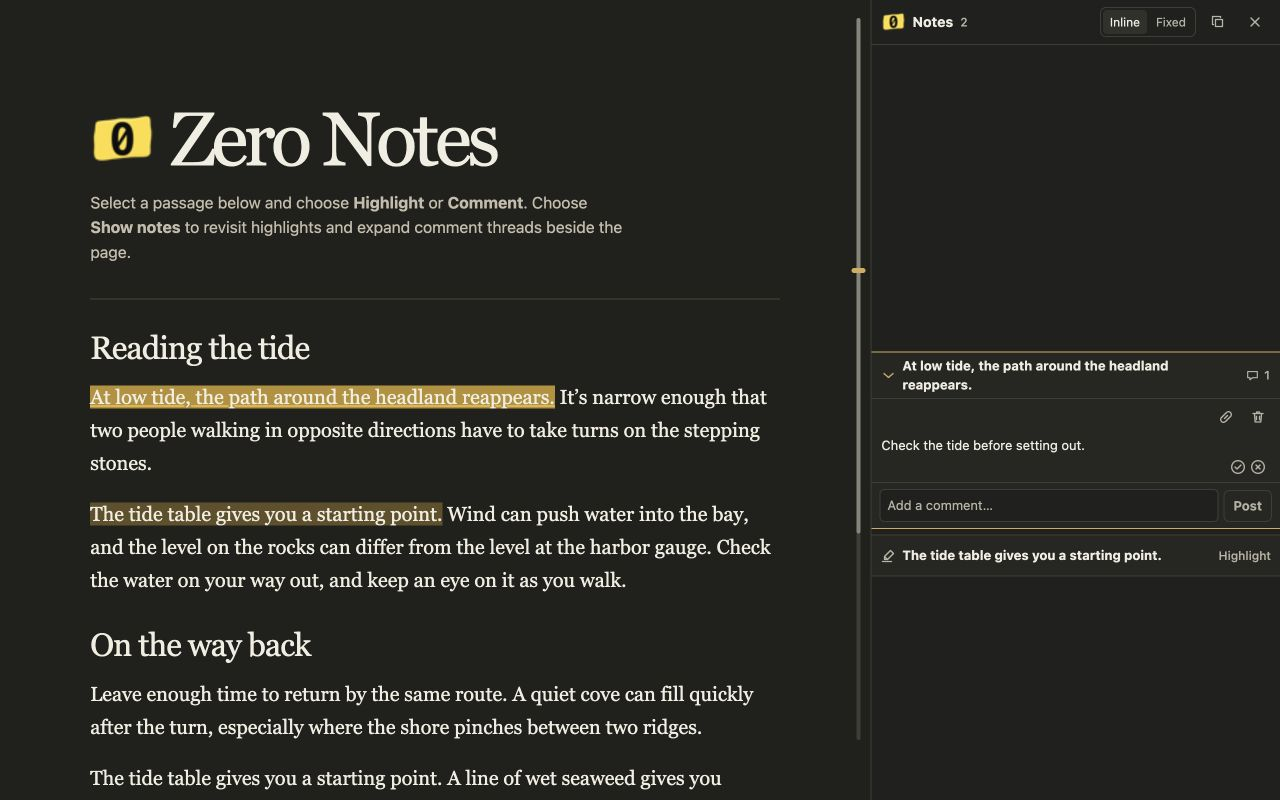
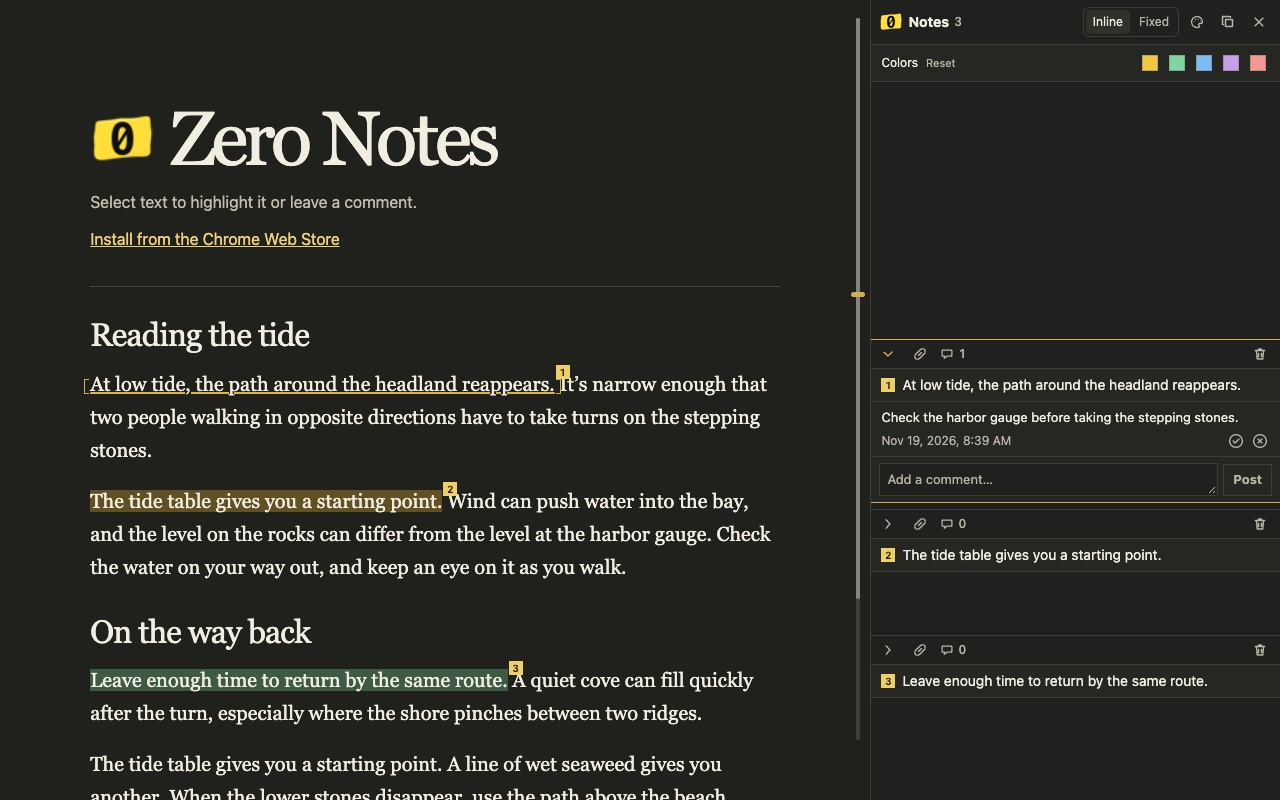
Prepare Zero Notes 1.1.0 for the Chrome Web Store

diff --git a/help.html b/help.html
@@ -190,8 +190,7 @@
         <div class="extension-setup">
           <div>
             <ol>
-              <li>Download or clone the <a href="https://github.com/zahmadsaleem/zero-notes">GitHub repository</a> and locate the <code>chrome-extension</code> folder.</li>
-              <li>Open <code>chrome://extensions</code>, turn on <strong>Developer mode</strong>, and choose <strong>Load unpacked</strong>. Select that folder.</li>
+              <li><a href="https://chromewebstore.google.com/detail/zero-notes/mjabdjgldanojgmehoiihcbkafkhobbh">Install Zero Notes from the Chrome Web Store</a>.</li>
               <li>Open Zero Notes from Chrome’s toolbar on a page you want to annotate. Select <strong>Enable</strong> and approve access for that site. Reload if the popup asks.</li>
             </ol>
             <p>Search the popup by page title or URL. Click a result to open that page.</p>

diff --git a/demo.html b/demo.html
@@ -56,6 +56,7 @@
     h2 { font-size: 32px; letter-spacing: -.025em; line-height: 1.15; margin: 0 0 14px; }
     p { margin: 0 0 18px; }
     header p { max-width: 53ch; color: var(--muted); margin: 0; }
+    .install-link { display: inline-block; margin-top: 12px; color: var(--accent); }
     article {
       font: 20px/1.65 "Crimson Text", Georgia, serif;
       margin-bottom: 40px;
@@ -78,6 +79,7 @@
     <header>
       <h1><img src="./chrome-extension/icons/icon-48.png" width="48" height="48" alt="">Zero Notes</h1>
       <p>Select text to highlight it or leave a comment.</p>
+      <a class="install-link" href="https://chromewebstore.google.com/detail/zero-notes/mjabdjgldanojgmehoiihcbkafkhobbh">Install from the Chrome Web Store</a>
     </header>
     <article aria-labelledby="article-title">
       <section>

diff --git a/README.md b/README.md
@@ -2,7 +2,7 @@
 
 Highlight text and leave comments. Notes stay in your browser.
 
-[Try the live demo](https://madsolame.com/zero-notes/)
+[Install from the Chrome Web Store](https://chromewebstore.google.com/detail/zero-notes/mjabdjgldanojgmehoiihcbkafkhobbh) · [Try the live demo](https://madsolame.com/zero-notes/) · [How To](https://madsolame.com/zero-notes/help.html)
 
 [Privacy policy](privacy.html) · [MIT License](LICENSE)
 
@@ -10,18 +10,20 @@ Highlight text and leave comments. Notes stay in your browser.
 
 ## Chrome extension
 
-1. Open `chrome://extensions` and turn on **Developer mode**.
-2. Choose **Load unpacked** and select the `chrome-extension/` folder.
-3. Open the extension on a page and click **Enable on this site**. Saved highlights appear automatically on enabled sites.
+After installing, open Zero Notes on a page you want to annotate. Click **Enable** and approve access for that site. Saved highlights appear automatically on enabled sites.
+
+To try a development build, open `chrome://extensions`, turn on **Developer mode**, choose **Load unpacked**, and select the `chrome-extension/` folder.
 
 ## Read notes from the terminal
 
-Use Google Chrome on macOS or Linux and Go 1.22 or later. Copy the ID from the Zero Notes card at `chrome://extensions` in the profile with your notes. Run this from the repo, replacing `EXTENSION_ID` with that ID.
+Use Google Chrome on macOS or Linux and Go 1.22 or later. From this repo, register the helper for the Chrome Web Store installation.
 
 ```sh
 go build -o zero-notes ./cli
-./zero-notes install EXTENSION_ID
+./zero-notes install mjabdjgldanojgmehoiihcbkafkhobbh
 ```
+
+For an unpacked build, substitute its ID from the Zero Notes card at `chrome://extensions` in the profile with your notes.
 
 The installer registers the helper with Chrome and prints the registration path. If **Connect CLI** is missing, reload the extension from its card at `chrome://extensions`. Then click **Connect CLI** in the popup and approve Native Messaging.
 
